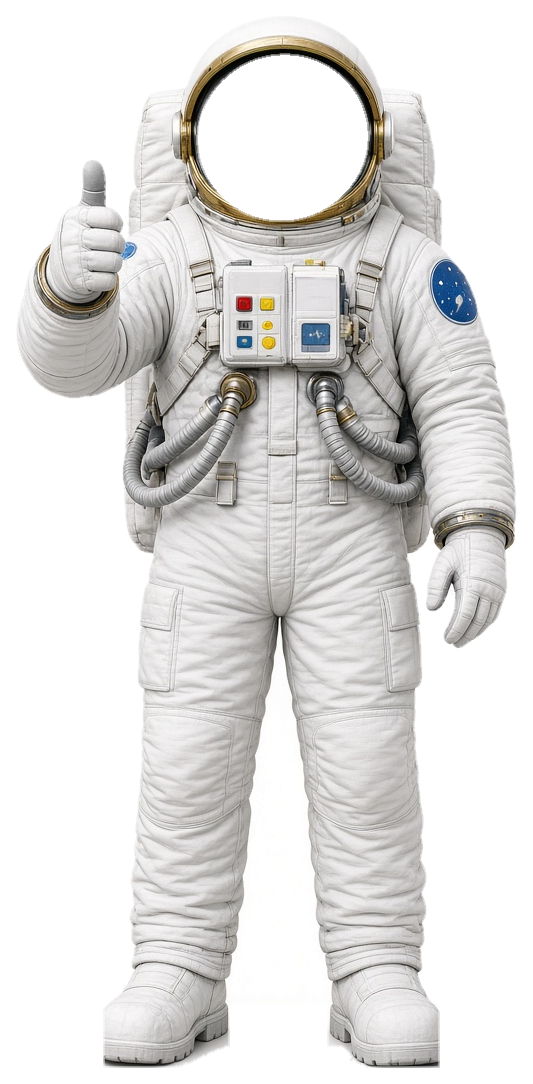
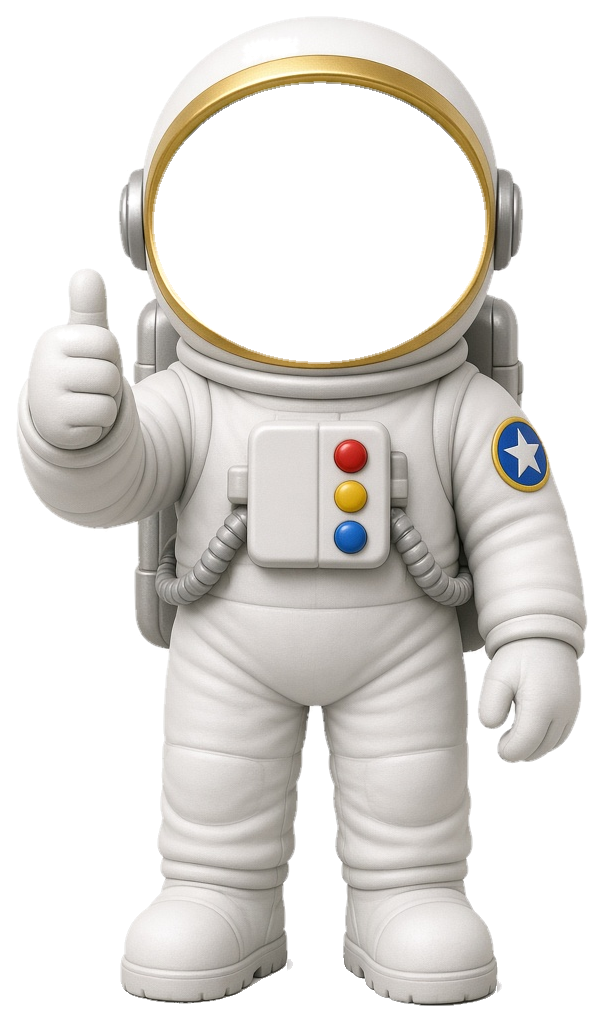
우주복을 아동틱하게 바꾸고, 다리 사이 배경을 비우고, 탐험대 글씨를 더 잘 보이게

diff --git a/space/app.js b/space/app.js
@@ -1461,10 +1461,10 @@
     }
   }
 
-  const ASTRO_VB_W = 533;
-  const ASTRO_VB_H = 1084;
-  const ASTRO_VISOR = { cx: 282.5, cy: 137.38, rx: 85, ry: 82.18, r: 83.59, rotation: 2.7811 };
-  const ASTRO_TIGHT = { x: 16, y: 16, w: 501, h: 1052 };
+  const ASTRO_VB_W = 604;
+  const ASTRO_VB_H = 1023;
+  const ASTRO_VISOR = { cx: 319.09, cy: 222.11, rx: 165.58, ry: 139.2, r: 152.39, rotation: 3.1329 };
+  const ASTRO_TIGHT = { x: 16, y: 16, w: 572, h: 990 };
   const ASTRO_SRC_WEBP = "assets/astronaut.webp";
   const ASTRO_SRC_PNG = "assets/astronaut.png";
   const CERT_GAP = 36;
@@ -1981,8 +1981,8 @@
       ctx.beginPath();
       ctx.ellipse(0, 0, rx, ry, 0, fromA, toA, false);
       ctx.stroke();
-      ctx.strokeStyle = "#4AD4F0";
-      ctx.lineWidth = Math.max(2, r * 0.035);
+      ctx.strokeStyle = "#C9A227";
+      ctx.lineWidth = Math.max(1.6, r * 0.028);
       ctx.beginPath();
       ctx.ellipse(0, 0, rx, ry, 0, fromA, toA, false);
       ctx.stroke();
@@ -2043,13 +2043,13 @@
         ctx.rotate(tang);
         ctx.lineJoin = "round";
         ctx.lineCap = "round";
-        ctx.strokeStyle = "#FFFDF4";
+        ctx.strokeStyle = "#0A1638";
+        ctx.lineWidth = Math.max(6, fontPx * 0.28);
+        ctx.strokeText(ch, 0, 0);
+        ctx.strokeStyle = "#071022";
         ctx.lineWidth = Math.max(4, fontPx * 0.18);
         ctx.strokeText(ch, 0, 0);
-        ctx.strokeStyle = "#0E1A3A";
-        ctx.lineWidth = Math.max(3, fontPx * 0.12);
-        ctx.strokeText(ch, 0, 0);
-        ctx.fillStyle = "#0E1A3A";
+        ctx.fillStyle = "#FFD54A";
         ctx.fillText(ch, 0, 0);
         ctx.restore();
         pos += wch;
@@ -2099,14 +2099,9 @@
     drawTextOnRing("우주 탐험대");
 
     ctx.beginPath();
-    ctx.arc(0, 0, r, 0, Math.PI * 2);
-    ctx.strokeStyle = "#4AD4F0";
-    ctx.lineWidth = r * 0.13;
-    ctx.stroke();
-    ctx.beginPath();
-    ctx.arc(0, 0, r - r * 0.055, 0, Math.PI * 2);
-    ctx.strokeStyle = "#FFFFFF";
-    ctx.lineWidth = r * 0.035;
+    ctx.arc(0, 0, r - r * 0.015, 0, Math.PI * 2);
+    ctx.strokeStyle = "#E8C25A";
+    ctx.lineWidth = Math.max(2, r * 0.04);
     ctx.stroke();
 
     ctx.restore();

diff --git a/space/styles.css b/space/styles.css
@@ -1101,7 +1101,7 @@ body.paused .c-moon-orbit {
   display: block;
   width: auto;
   height: 200px;
-  aspect-ratio: 533 / 1084;
+  aspect-ratio: 604 / 1023;
   filter: drop-shadow(0 4px 8px rgba(0,0,0,0.22));
 }
 .builder .astronaut-art { height: 210px; width: auto; }

diff --git a/space/sw.js b/space/sw.js
@@ -1,4 +1,4 @@
-const CACHE = "space-explore-v7";
+const CACHE = "space-explore-v8";
 const ASSETS = [
   "./",
   "./index.html",
